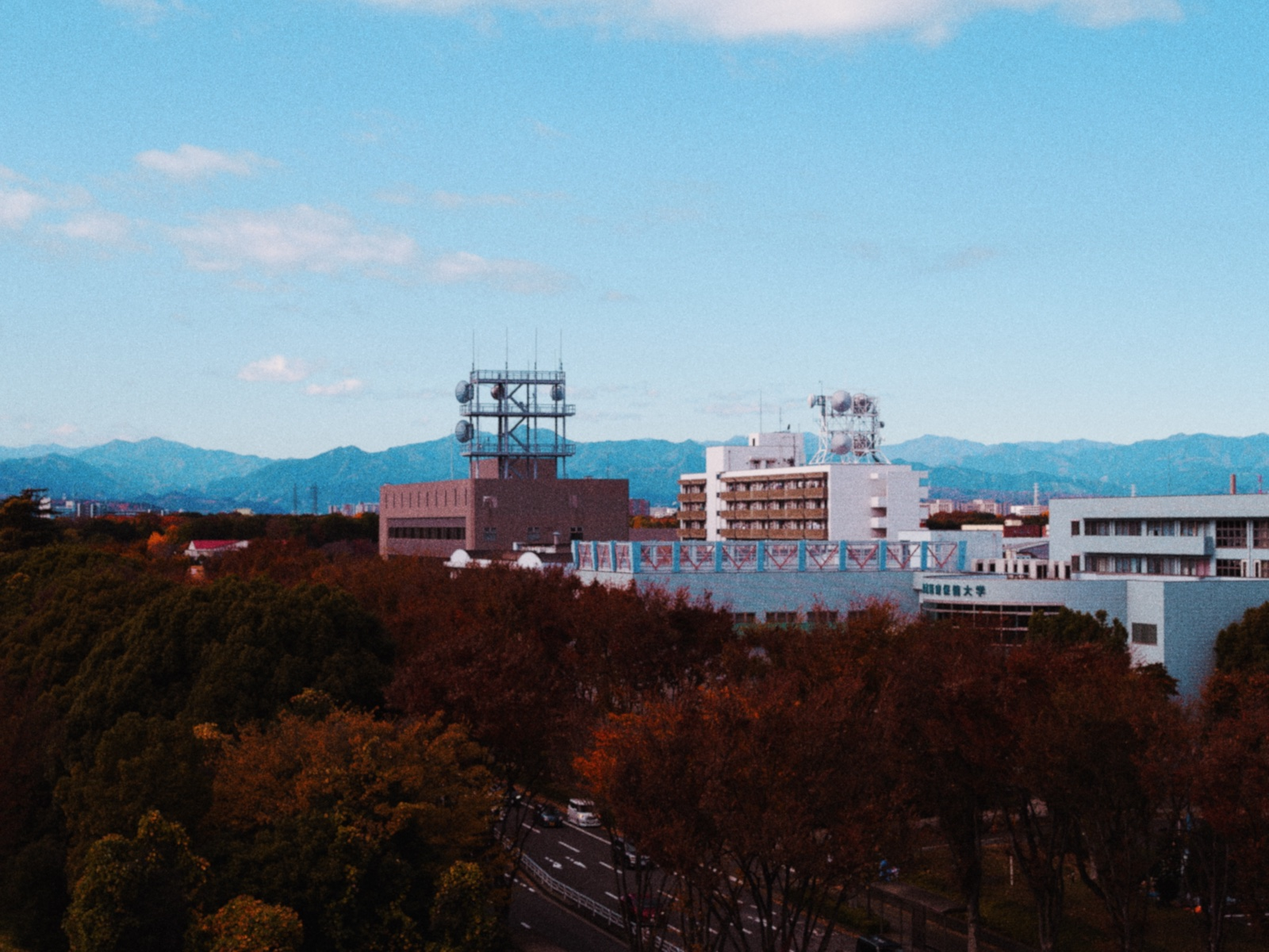
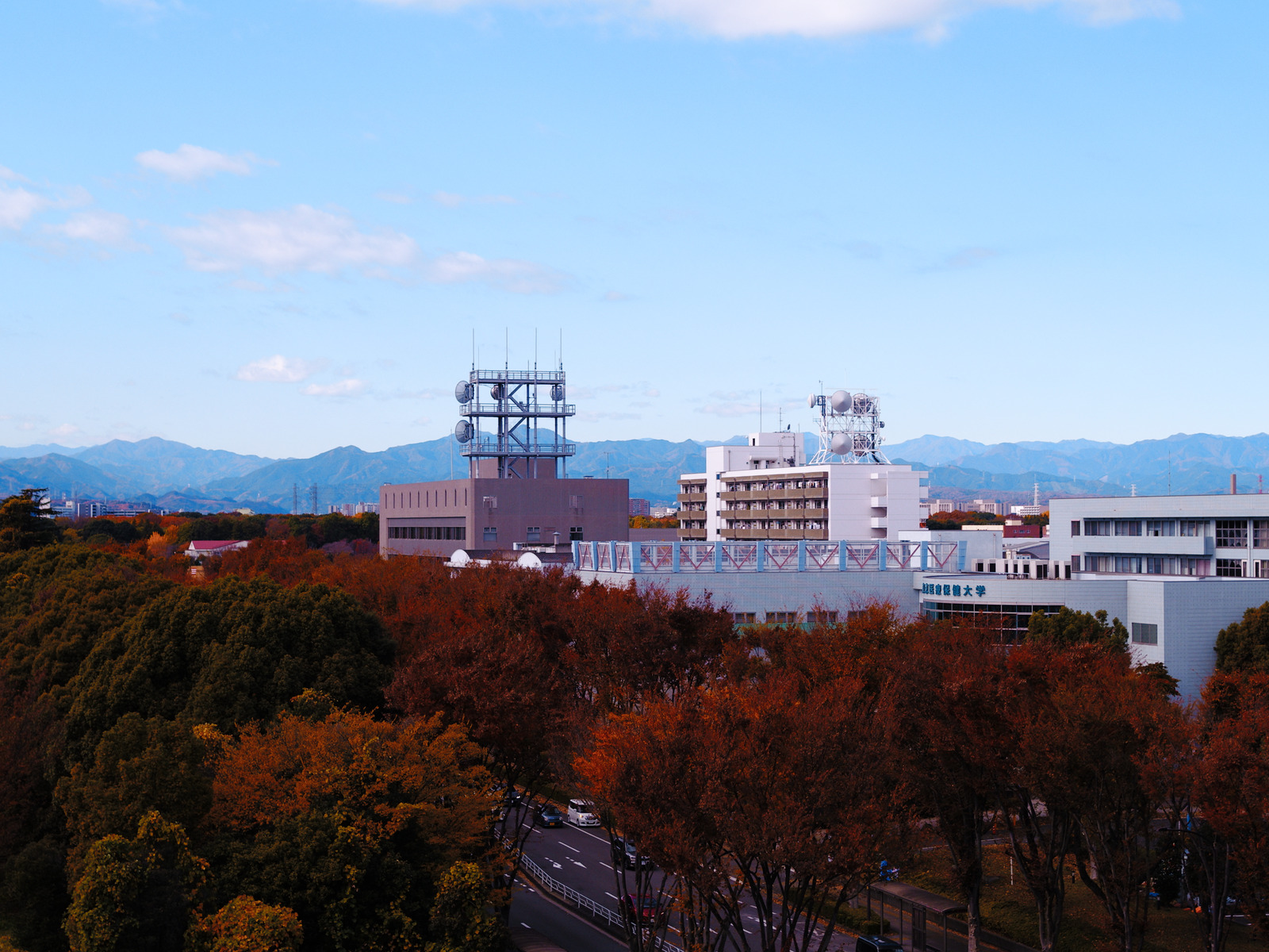
更新 Emulsion V8 宣传资料与多语言配方说明
需求描述：内置胶片配方已更新，历史样片与免费胶片范围需要同步。

实现思路：比较五张原图的 16 款真实 V8 显影结果，选择 Honey、Mint、Midnight、Ridge 样片；更新八语言介绍并区分新版预览与现有 TestFlight 构建。

diff --git a/emulsion/site-copy.js b/emulsion/site-copy.js
@@ -2,7 +2,7 @@ window.EMULSION_SITE = {
   "en-US": {
     "title": "Manual camera & film darkroom",
     "promo": "Load a film, make the frame, and develop your own look. Manual controls, a live film preview, and a darkroom for photos old and new.",
-    "description": "Emulsion brings the rhythm of film photography to your iPhone: choose a film, compose your frame, and develop it in your own darkroom.\n\nA CAMERA YOU CONTROL\nAdjust ISO, shutter speed, white balance, focus, and exposure. Use composition guides and a live film preview to shape the photograph before you press the shutter. RAW and ProRAW capture are available on supported devices.\n\nFILM WITH CHARACTER\nExplore color and black-and-white stocks with grain, halation, bloom, and tonal character. Honey 200 and the Daily Roll give you a place to begin. Emulsion Club opens the full film collection and custom .cube LUT imports.\n\nYOUR POCKET DARKROOM\nDevelop photos from your library, change their film look, adjust the image, and finish with print frames. Work with half-frame and fisheye shooting modes for a different perspective.\n\nEMULSION CLUB\nChoose monthly or yearly membership, or a one-time lifetime purchase. Eligible customers may receive an introductory offer, shown before purchase. Subscriptions renew automatically unless canceled at least 24 hours before the current period ends. Manage or cancel them in your Apple Account settings.\n\nCamera features depend on your device.",
+    "description": "Emulsion brings the rhythm of film photography to your iPhone: choose a film, compose your frame, and develop it in your own darkroom.\n\nA CAMERA YOU CONTROL\nAdjust ISO, shutter speed, white balance, focus, and exposure. Use composition guides and a live film preview to shape the photograph before you press the shutter. RAW and ProRAW capture are available on supported devices.\n\nFILM WITH CHARACTER\nExplore 10 color films, 6 black-and-white films and 4 paper-print looks, each with its own color, tone and texture. Peach 160, Honey 200 and Silver 100 are free, alongside the Daily Roll. Emulsion Club unlocks the remaining films, paper-print looks and custom .cube LUT imports.\n\nYOUR POCKET DARKROOM\nDevelop photos from your library, change their film look, adjust the image, and finish with print frames. Work with half-frame and fisheye shooting modes for a different perspective.\n\nEMULSION CLUB\nChoose monthly or yearly membership, or a one-time lifetime purchase. Eligible customers may receive an introductory offer, shown before purchase. Subscriptions renew automatically unless canceled at least 24 hours before the current period ends. Manage or cancel them in your Apple Account settings.\n\nCamera features depend on your device.",
     "ui": [
       "English",
       "Support",
@@ -16,7 +16,7 @@ window.EMULSION_SITE = {
     "paragraphs": [
       "Emulsion brings the rhythm of film photography to your iPhone: choose a film, compose your frame, and develop it in your own darkroom.",
       "A CAMERA YOU CONTROL\nAdjust ISO, shutter speed, white balance, focus, and exposure. Use composition guides and a live film preview to shape the photograph before you press the shutter. RAW and ProRAW capture are available on supported devices.",
-      "FILM WITH CHARACTER\nExplore color and black-and-white stocks with grain, halation, bloom, and tonal character. Honey 200 and the Daily Roll give you a place to begin. Emulsion Club opens the full film collection and custom .cube LUT imports.",
+      "FILM WITH CHARACTER\nExplore 10 color films, 6 black-and-white films and 4 paper-print looks, each with its own color, tone and texture. Peach 160, Honey 200 and Silver 100 are free, alongside the Daily Roll. Emulsion Club unlocks the remaining films, paper-print looks and custom .cube LUT imports.",
       "YOUR POCKET DARKROOM\nDevelop photos from your library, change their film look, adjust the image, and finish with print frames. Work with half-frame and fisheye shooting modes for a different perspective.",
       "EMULSION CLUB\nChoose monthly or yearly membership, or a one-time lifetime purchase. Eligible customers may receive an introductory offer, shown before purchase. Subscriptions renew automatically unless canceled at least 24 hours before the current period ends. Manage or cancel them in your Apple Account settings.",
       "Camera features depend on your device."
@@ -27,9 +27,9 @@ window.EMULSION_SITE = {
       "sample": "Emulsion film sample",
       "imageAlts": [
         "City photograph developed with Honey 200",
-        "Cherry blossoms developed with Peach 160",
-        "Tower photograph developed with Flint 100",
-        "Airplane photograph developed with Honey 200"
+        "Cherry blossoms developed with Mint 400",
+        "Tower photograph developed with Midnight 400",
+        "Airplane photograph developed with Ridge 100"
       ],
       "headings": [
         "Make the frame.",
@@ -40,12 +40,13 @@ window.EMULSION_SITE = {
       "beta": "Try on TestFlight",
       "explore": "Explore the film samples",
       "closing": "Choose. Capture. Develop."
-    }
+    },
+    "previewNote": "V8 preview: these samples use the new film recipes. The current public beta (build 8) uses earlier recipes."
   },
   "de-DE": {
     "title": "Filmkamera & Dunkelkammer",
     "promo": "Film wählen, Bild gestalten, eigenen Look entwickeln. Mit manueller Steuerung, Live-Filmvorschau und Dunkelkammer für neue und vertraute Fotos.",
-    "description": "Emulsion bringt den Rhythmus der analogen Fotografie auf dein iPhone: Wähle einen Film, gestalte dein Bild und entwickle es in deiner eigenen Dunkelkammer.\n\nEINE KAMERA UNTER DEINER KONTROLLE\nPasse ISO, Verschlusszeit, Weißabgleich, Fokus und Belichtung an. Gestaltungshilfen und eine Live-Filmvorschau helfen dir, dein Foto schon vor dem Auslösen zu formen. RAW- und ProRAW-Aufnahmen sind auf unterstützten Geräten verfügbar.\n\nFILME MIT CHARAKTER\nEntdecke Farb- und Schwarz-Weiß-Filme mit Körnung, Halation, weichem Lichtschein und eigenen Tonwerten. Honey 200 und Daily Roll bieten dir einen Einstieg. Emulsion Club schaltet die gesamte Filmsammlung und den Import eigener .cube-LUTs frei.\n\nDEINE MOBILE DUNKELKAMMER\nEntwickle Fotos aus deiner Mediathek, ändere ihren Filmlook, passe das Bild an und runde es mit Fotorahmen ab. Halbbild- und Fisheye-Aufnahmemodi eröffnen dir eine andere Perspektive.\n\nEMULSION CLUB\nWähle eine monatliche oder jährliche Mitgliedschaft oder einen einmaligen Kauf für lebenslangen Zugang. Berechtigte Kunden können ein Einführungsangebot erhalten, das vor dem Kauf angezeigt wird. Abonnements verlängern sich automatisch, sofern sie nicht mindestens 24 Stunden vor Ende des laufenden Zeitraums gekündigt werden. Du kannst sie in den Einstellungen deines Apple Accounts verwalten oder kündigen.\n\nDie Kamerafunktionen hängen von deinem Gerät ab.\n\nDatenschutzerklärung: https://www.makexyz.app/emulsion/privacy-policy.html\nNutzungsbedingungen: https://www.makexyz.app/emulsion/terms-of-service.html",
+    "description": "Emulsion bringt den Rhythmus der analogen Fotografie auf dein iPhone: Wähle einen Film, gestalte dein Bild und entwickle es in deiner eigenen Dunkelkammer.\n\nEINE KAMERA UNTER DEINER KONTROLLE\nPasse ISO, Verschlusszeit, Weißabgleich, Fokus und Belichtung an. Gestaltungshilfen und eine Live-Filmvorschau helfen dir, dein Foto schon vor dem Auslösen zu formen. RAW- und ProRAW-Aufnahmen sind auf unterstützten Geräten verfügbar.\n\nFILME MIT CHARAKTER\nWähle aus 10 Farbfilmen, 6 Schwarz-Weiß-Filmen und 4 Papierlooks mit eigenen Farben, Tonwerten und Texturen. Peach 160, Honey 200, Silver 100 und Daily Roll sind kostenlos. Emulsion Club schaltet die übrigen Filme, Papierlooks und den Import eigener .cube-LUTs frei.\n\nDEINE MOBILE DUNKELKAMMER\nEntwickle Fotos aus deiner Mediathek, ändere ihren Filmlook, passe das Bild an und runde es mit Fotorahmen ab. Halbbild- und Fisheye-Aufnahmemodi eröffnen dir eine andere Perspektive.\n\nEMULSION CLUB\nWähle eine monatliche oder jährliche Mitgliedschaft oder einen einmaligen Kauf für lebenslangen Zugang. Berechtigte Kunden können ein Einführungsangebot erhalten, das vor dem Kauf angezeigt wird. Abonnements verlängern sich automatisch, sofern sie nicht mindestens 24 Stunden vor Ende des laufenden Zeitraums gekündigt werden. Du kannst sie in den Einstellungen deines Apple Accounts verwalten oder kündigen.\n\nDie Kamerafunktionen hängen von deinem Gerät ab.\n\nDatenschutzerklärung: https://www.makexyz.app/emulsion/privacy-policy.html\nNutzungsbedingungen: https://www.makexyz.app/emulsion/terms-of-service.html",
     "ui": [
       "Deutsch",
       "Support",
@@ -59,7 +60,7 @@ window.EMULSION_SITE = {
     "paragraphs": [
       "Emulsion bringt den Rhythmus der analogen Fotografie auf dein iPhone: Wähle einen Film, gestalte dein Bild und entwickle es in deiner eigenen Dunkelkammer.",
       "EINE KAMERA UNTER DEINER KONTROLLE\nPasse ISO, Verschlusszeit, Weißabgleich, Fokus und Belichtung an. Gestaltungshilfen und eine Live-Filmvorschau helfen dir, dein Foto schon vor dem Auslösen zu formen. RAW- und ProRAW-Aufnahmen sind auf unterstützten Geräten verfügbar.",
-      "FILME MIT CHARAKTER\nEntdecke Farb- und Schwarz-Weiß-Filme mit Körnung, Halation, weichem Lichtschein und eigenen Tonwerten. Honey 200 und Daily Roll bieten dir einen Einstieg. Emulsion Club schaltet die gesamte Filmsammlung und den Import eigener .cube-LUTs frei.",
+      "FILME MIT CHARAKTER\nWähle aus 10 Farbfilmen, 6 Schwarz-Weiß-Filmen und 4 Papierlooks mit eigenen Farben, Tonwerten und Texturen. Peach 160, Honey 200, Silver 100 und Daily Roll sind kostenlos. Emulsion Club schaltet die übrigen Filme, Papierlooks und den Import eigener .cube-LUTs frei.",
       "DEINE MOBILE DUNKELKAMMER\nEntwickle Fotos aus deiner Mediathek, ändere ihren Filmlook, passe das Bild an und runde es mit Fotorahmen ab. Halbbild- und Fisheye-Aufnahmemodi eröffnen dir eine andere Perspektive.",
       "EMULSION CLUB\nWähle eine monatliche oder jährliche Mitgliedschaft oder einen einmaligen Kauf für lebenslangen Zugang. Berechtigte Kunden können ein Einführungsangebot erhalten, das vor dem Kauf angezeigt wird. Abonnements verlängern sich automatisch, sofern sie nicht mindestens 24 Stunden vor Ende des laufenden Zeitraums gekündigt werden. Du kannst sie in den Einstellungen deines Apple Accounts verwalten oder kündigen.",
       "Die Kamerafunktionen hängen von deinem Gerät ab."
@@ -70,9 +71,9 @@ window.EMULSION_SITE = {
       "sample": "Emulsion Filmbeispiel",
       "imageAlts": [
         "Stadtfoto mit Honey 200 entwickelt",
-        "Kirschblüten mit Peach 160 entwickelt",
-        "Turmfoto mit Flint 100 entwickelt",
-        "Flugzeugfoto mit Honey 200 entwickelt"
+        "Kirschblüten mit Mint 400 entwickelt",
+        "Turmfoto mit Midnight 400 entwickelt",
+        "Flugzeugfoto mit Ridge 100 entwickelt"
       ],
       "headings": [
         "Eine Kamera unter deiner Kontrolle",
@@ -83,12 +84,13 @@ window.EMULSION_SITE = {
       "beta": "Mit TestFlight testen",
       "explore": "Filmbeispiele ansehen",
       "closing": "Wählen. Aufnehmen. Entwickeln."
-    }
+    },
+    "previewNote": "V8-Vorschau: Die Beispiele nutzen die neuen Filmrezepte. Die aktuelle öffentliche Beta (Build 8) nutzt frühere Rezepte."
   },
   "zh-Hans": {
     "title": "专业手动相机与胶片暗房",
     "promo": "选一卷胶片，认真构图，在口袋暗房里完成作品。手动控制、实时胶片预览，让拍摄与冲洗成为同一段创作。",
-    "description": "Emulsion 将胶片摄影的节奏带到 iPhone：选择胶片、构图拍摄，再到暗房里完成自己的影像。\n\n专业手动拍摄\n调节 ISO、快门、白平衡、对焦与曝光。借助构图辅助和实时胶片预览，在按下快门之前塑造画面。RAW 与 ProRAW 拍摄需要支持的设备。\n\n有性格的胶片\n探索彩色与黑白胶片的颗粒、光晕和色调。从 Honey 200 和每日胶片开始，加入 Emulsion Club 可解锁完整胶片库并导入自己的 .cube LUT。\n\n口袋里的暗房\n导入图库照片，重新选择胶片、调整画面并添加相框。半格与鱼眼拍摄模式，带来不同的观察方式。\n\nEmulsion Club\n提供月度、年度订阅及一次性终身购买。符合条件的用户可享购买前展示的入门优惠。订阅会自动续期，除非在当前周期结束至少 24 小时前取消。可在 Apple 账户设置中管理或取消订阅。\n\n相机功能因设备而异。\n\n隐私政策: https://www.makexyz.app/emulsion/privacy-policy.html\n用户条款: https://www.makexyz.app/emulsion/terms-of-service.html",
+    "description": "Emulsion 将胶片摄影的节奏带到 iPhone：选择胶片、构图拍摄，再到暗房里完成自己的影像。\n\n专业手动拍摄\n调节 ISO、快门、白平衡、对焦与曝光。借助构图辅助和实时胶片预览，在按下快门之前塑造画面。RAW 与 ProRAW 拍摄需要支持的设备。\n\n有性格的胶片\n从 10 款彩色胶片、6 款黑白胶片和 4 款纸张效果中，选择不同的色彩、灰阶与质感。Peach 160、Honey 200、Silver 100 与每日胶片免费提供；Emulsion Club 可解锁其余胶片、纸张效果并导入自己的 .cube LUT。\n\n口袋里的暗房\n导入图库照片，重新选择胶片、调整画面并添加相框。半格与鱼眼拍摄模式，带来不同的观察方式。\n\nEmulsion Club\n提供月度、年度订阅及一次性终身购买。符合条件的用户可享购买前展示的入门优惠。订阅会自动续期，除非在当前周期结束至少 24 小时前取消。可在 Apple 账户设置中管理或取消订阅。\n\n相机功能因设备而异。\n\n隐私政策: https://www.makexyz.app/emulsion/privacy-policy.html\n用户条款: https://www.makexyz.app/emulsion/terms-of-service.html",
     "ui": [
       "简体中文",
       "支持",
@@ -102,7 +104,7 @@ window.EMULSION_SITE = {
     "paragraphs": [
       "Emulsion 将胶片摄影的节奏带到 iPhone：选择胶片、构图拍摄，再到暗房里完成自己的影像。",
       "专业手动拍摄\n调节 ISO、快门、白平衡、对焦与曝光。借助构图辅助和实时胶片预览，在按下快门之前塑造画面。RAW 与 ProRAW 拍摄需要支持的设备。",
-      "有性格的胶片\n探索彩色与黑白胶片的颗粒、光晕和色调。从 Honey 200 和每日胶片开始，加入 Emulsion Club 可解锁完整胶片库并导入自己的 .cube LUT。",
+      "有性格的胶片\n从 10 款彩色胶片、6 款黑白胶片和 4 款纸张效果中，选择不同的色彩、灰阶与质感。Peach 160、Honey 200、Silver 100 与每日胶片免费提供；Emulsion Club 可解锁其余胶片、纸张效果并导入自己的 .cube LUT。",
       "口袋里的暗房\n导入图库照片，重新选择胶片、调整画面并添加相框。半格与鱼眼拍摄模式，带来不同的观察方式。",
       "Emulsion Club\n提供月度、年度订阅及一次性终身购买。符合条件的用户可享购买前展示的入门优惠。订阅会自动续期，除非在当前周期结束至少 24 小时前取消。可在 Apple 账户设置中管理或取消订阅。",
       "相机功能因设备而异。"
@@ -113,9 +115,9 @@ window.EMULSION_SITE = {
       "sample": "Emulsion 胶片样片",
       "imageAlts": [
         "以 Honey 200 显影的城市照片",
-        "以 Peach 160 显影的樱花照片",
-        "以 Flint 100 显影的塔楼照片",
-        "以 Honey 200 显影的飞机照片"
+        "以 Mint 400 显影的樱花照片",
+        "以 Midnight 400 显影的塔楼照片",
+        "以 Ridge 100 显影的飞机照片"
       ],
       "headings": [
         "掌握你的光线。",
@@ -126,12 +128,13 @@ window.EMULSION_SITE = {
       "beta": "加入 TestFlight 测试",
       "explore": "查看胶片样片",
       "closing": "选一卷。拍一张。慢慢显影。"
-    }
+    },
+    "previewNote": "V8 预览：这些样片使用新版胶片配方。当前公开测试版（构建 8）仍使用旧配方。"
   },
   "fr-FR": {
     "title": "Photo argentique et labo",
     "promo": "Choisissez un film, composez et révélez votre style. Réglages manuels, aperçu en direct et labo photo pour vos images d’hier et d’aujourd’hui.",
-    "description": "Emulsion apporte le rythme de la photographie argentique à votre iPhone : choisissez une pellicule, composez votre image et développez-la dans votre propre labo.\n\nUN APPAREIL QUE VOUS MAÎTRISEZ\nRéglez la sensibilité ISO, la vitesse d’obturation, la balance des blancs, la mise au point et l’exposition. Les guides de composition et l’aperçu du film en direct vous aident à façonner votre photo avant de déclencher. La prise de vue RAW et ProRAW est disponible sur les appareils compatibles.\n\nDES FILMS DE CARACTÈRE\nExplorez des pellicules couleur et noir et blanc, avec leur grain, leur halation, leur diffusion lumineuse et leurs nuances. Honey 200 et Daily Roll vous offrent un point de départ. Emulsion Club donne accès à la collection complète de films et à l’importation de LUT .cube personnalisées.\n\nVOTRE LABO DE POCHE\nDéveloppez les photos de votre photothèque, changez leur rendu de film, ajustez l’image et apportez la touche finale avec des cadres d’impression. Les modes demi-format et fisheye vous proposent un autre point de vue.\n\nEMULSION CLUB\nChoisissez un abonnement mensuel ou annuel, ou un achat unique à vie. Les clients éligibles peuvent bénéficier d’une offre de lancement, présentée avant l’achat. Les abonnements sont renouvelés automatiquement, sauf annulation au moins 24 heures avant la fin de la période en cours. Vous pouvez les gérer ou les annuler dans les réglages de votre compte Apple.\n\nLes fonctions de l’appareil photo dépendent de votre appareil.\n\nPolitique de confidentialité : https://www.makexyz.app/emulsion/privacy-policy.html\nConditions d’utilisation : https://www.makexyz.app/emulsion/terms-of-service.html",
+    "description": "Emulsion apporte le rythme de la photographie argentique à votre iPhone : choisissez une pellicule, composez votre image et développez-la dans votre propre labo.\n\nUN APPAREIL QUE VOUS MAÎTRISEZ\nRéglez la sensibilité ISO, la vitesse d’obturation, la balance des blancs, la mise au point et l’exposition. Les guides de composition et l’aperçu du film en direct vous aident à façonner votre photo avant de déclencher. La prise de vue RAW et ProRAW est disponible sur les appareils compatibles.\n\nDES FILMS DE CARACTÈRE\nChoisissez parmi 10 films couleur, 6 films noir et blanc et 4 rendus sur papier, avec leurs couleurs, nuances et textures. Peach 160, Honey 200, Silver 100 et Daily Roll sont gratuits. Emulsion Club débloque les autres films, les rendus sur papier et l’importation de LUT .cube personnalisées.\n\nVOTRE LABO DE POCHE\nDéveloppez les photos de votre photothèque, changez leur rendu de film, ajustez l’image et apportez la touche finale avec des cadres d’impression. Les modes demi-format et fisheye vous proposent un autre point de vue.\n\nEMULSION CLUB\nChoisissez un abonnement mensuel ou annuel, ou un achat unique à vie. Les clients éligibles peuvent bénéficier d’une offre de lancement, présentée avant l’achat. Les abonnements sont renouvelés automatiquement, sauf annulation au moins 24 heures avant la fin de la période en cours. Vous pouvez les gérer ou les annuler dans les réglages de votre compte Apple.\n\nLes fonctions de l’appareil photo dépendent de votre appareil.\n\nPolitique de confidentialité : https://www.makexyz.app/emulsion/privacy-policy.html\nConditions d’utilisation : https://www.makexyz.app/emulsion/terms-of-service.html",
     "ui": [
       "Français",
       "Assistance",
@@ -145,7 +148,7 @@ window.EMULSION_SITE = {
     "paragraphs": [
       "Emulsion apporte le rythme de la photographie argentique à votre iPhone : choisissez une pellicule, composez votre image et développez-la dans votre propre labo.",
       "UN APPAREIL QUE VOUS MAÎTRISEZ\nRéglez la sensibilité ISO, la vitesse d’obturation, la balance des blancs, la mise au point et l’exposition. Les guides de composition et l’aperçu du film en direct vous aident à façonner votre photo avant de déclencher. La prise de vue RAW et ProRAW est disponible sur les appareils compatibles.",
-      "DES FILMS DE CARACTÈRE\nExplorez des pellicules couleur et noir et blanc, avec leur grain, leur halation, leur diffusion lumineuse et leurs nuances. Honey 200 et Daily Roll vous offrent un point de départ. Emulsion Club donne accès à la collection complète de films et à l’importation de LUT .cube personnalisées.",
+      "DES FILMS DE CARACTÈRE\nChoisissez parmi 10 films couleur, 6 films noir et blanc et 4 rendus sur papier, avec leurs couleurs, nuances et textures. Peach 160, Honey 200, Silver 100 et Daily Roll sont gratuits. Emulsion Club débloque les autres films, les rendus sur papier et l’importation de LUT .cube personnalisées.",
       "VOTRE LABO DE POCHE\nDéveloppez les photos de votre photothèque, changez leur rendu de film, ajustez l’image et apportez la touche finale avec des cadres d’impression. Les modes demi-format et fisheye vous proposent un autre point de vue.",
       "EMULSION CLUB\nChoisissez un abonnement mensuel ou annuel, ou un achat unique à vie. Les clients éligibles peuvent bénéficier d’une offre de lancement, présentée avant l’achat. Les abonnements sont renouvelés automatiquement, sauf annulation au moins 24 heures avant la fin de la période en cours. Vous pouvez les gérer ou les annuler dans les réglages de votre compte Apple.",
       "Les fonctions de l’appareil photo dépendent de votre appareil."
@@ -156,9 +159,9 @@ window.EMULSION_SITE = {
       "sample": "Exemple de film Emulsion",
       "imageAlts": [
         "Photo urbaine développée avec Honey 200",
-        "Cerisiers en fleurs développés avec Peach 160",
-        "Photo de tour développée avec Flint 100",
-        "Photo d’avion développée avec Honey 200"
+        "Cerisiers en fleurs développés avec Mint 400",
+        "Photo de tour développée avec Midnight 400",
+        "Photo d’avion développée avec Ridge 100"
       ],
       "headings": [
         "Un appareil que vous maîtrisez",
@@ -169,12 +172,13 @@ window.EMULSION_SITE = {
       "beta": "Essayer sur TestFlight",
       "explore": "Voir les exemples",
       "closing": "Choisir. Cadrer. Révéler."
-    }
+    },
+    "previewNote": "Aperçu V8 : les exemples utilisent les nouvelles recettes. La bêta publique actuelle (build 8) utilise les recettes précédentes."
   },
   "ko": {
     "title": "필름 카메라와 나만의 암실",
     "promo": "필름을 넣고, 구도를 잡고, 나만의 느낌으로 현상하세요. 수동 조절, 실시간 필름 미리보기, 새 사진과 추억 속 사진을 위한 암실을 만나보세요.",
-    "description": "Emulsion은 필름 사진의 리듬을 iPhone으로 가져옵니다. 필름을 고르고, 구도를 잡고, 나만의 암실에서 사진을 현상해 보세요.\n\n내 손으로 조절하는 카메라\nISO, 셔터 속도, 화이트 밸런스, 초점, 노출을 조절하세요. 구도 가이드와 실시간 필름 미리보기로 셔터를 누르기 전에 원하는 사진을 만들어 갈 수 있습니다. 지원 기기에서는 RAW 및 ProRAW 촬영이 가능합니다.\n\n개성 있는 필름\n그레인, 할레이션, 블룸, 색조의 특징이 살아 있는 컬러와 흑백 필름을 만나보세요. Honey 200과 Daily Roll로 시작할 수 있습니다. Emulsion Club에서는 전체 필름 컬렉션과 사용자 지정 .cube LUT 가져오기를 이용할 수 있습니다.\n\n주머니 속 암실\n사진 보관함의 사진을 현상하고, 필름 느낌을 바꾸고, 이미지를 조정한 뒤 인화 프레임으로 마무리하세요. 하프프레임과 어안 촬영 모드로 색다른 시점도 만나보세요.\n\nEMULSION CLUB\n월간 또는 연간 멤버십, 혹은 한 번 구매하는 평생 이용권을 선택할 수 있습니다. 자격 요건을 충족하는 고객에게는 가입 특별 혜택이 제공될 수 있으며, 구매 전에 안내됩니다. 현재 구독 기간이 끝나기 최소 24시간 전에 취소하지 않으면 구독이 자동 갱신됩니다. Apple 계정 설정에서 구독을 관리하거나 취소할 수 있습니다.\n\n카메라 기능은 기기에 따라 다릅니다.\n\n개인정보 처리방침: https://www.makexyz.app/emulsion/privacy-policy.html\n이용 약관: https://www.makexyz.app/emulsion/terms-of-service.html",
+    "description": "Emulsion은 필름 사진의 리듬을 iPhone으로 가져옵니다. 필름을 고르고, 구도를 잡고, 나만의 암실에서 사진을 현상해 보세요.\n\n내 손으로 조절하는 카메라\nISO, 셔터 속도, 화이트 밸런스, 초점, 노출을 조절하세요. 구도 가이드와 실시간 필름 미리보기로 셔터를 누르기 전에 원하는 사진을 만들어 갈 수 있습니다. 지원 기기에서는 RAW 및 ProRAW 촬영이 가능합니다.\n\n개성 있는 필름\n컬러 필름 10종, 흑백 필름 6종과 종이 인쇄 효과 4종에서 색감, 명암과 질감을 골라 보세요. Peach 160, Honey 200, Silver 100과 Daily Roll은 무료입니다. Emulsion Club에서 나머지 필름, 종이 인쇄 효과와 사용자 .cube LUT 가져오기를 이용할 수 있습니다.\n\n주머니 속 암실\n사진 보관함의 사진을 현상하고, 필름 느낌을 바꾸고, 이미지를 조정한 뒤 인화 프레임으로 마무리하세요. 하프프레임과 어안 촬영 모드로 색다른 시점도 만나보세요.\n\nEMULSION CLUB\n월간 또는 연간 멤버십, 혹은 한 번 구매하는 평생 이용권을 선택할 수 있습니다. 자격 요건을 충족하는 고객에게는 가입 특별 혜택이 제공될 수 있으며, 구매 전에 안내됩니다. 현재 구독 기간이 끝나기 최소 24시간 전에 취소하지 않으면 구독이 자동 갱신됩니다. Apple 계정 설정에서 구독을 관리하거나 취소할 수 있습니다.\n\n카메라 기능은 기기에 따라 다릅니다.\n\n개인정보 처리방침: https://www.makexyz.app/emulsion/privacy-policy.html\n이용 약관: https://www.makexyz.app/emulsion/terms-of-service.html",
     "ui": [
       "한국어",
       "지원",
@@ -188,7 +192,7 @@ window.EMULSION_SITE = {
     "paragraphs": [
       "Emulsion은 필름 사진의 리듬을 iPhone으로 가져옵니다. 필름을 고르고, 구도를 잡고, 나만의 암실에서 사진을 현상해 보세요.",
       "내 손으로 조절하는 카메라\nISO, 셔터 속도, 화이트 밸런스, 초점, 노출을 조절하세요. 구도 가이드와 실시간 필름 미리보기로 셔터를 누르기 전에 원하는 사진을 만들어 갈 수 있습니다. 지원 기기에서는 RAW 및 ProRAW 촬영이 가능합니다.",
-      "개성 있는 필름\n그레인, 할레이션, 블룸, 색조의 특징이 살아 있는 컬러와 흑백 필름을 만나보세요. Honey 200과 Daily Roll로 시작할 수 있습니다. Emulsion Club에서는 전체 필름 컬렉션과 사용자 지정 .cube LUT 가져오기를 이용할 수 있습니다.",
+      "개성 있는 필름\n컬러 필름 10종, 흑백 필름 6종과 종이 인쇄 효과 4종에서 색감, 명암과 질감을 골라 보세요. Peach 160, Honey 200, Silver 100과 Daily Roll은 무료입니다. Emulsion Club에서 나머지 필름, 종이 인쇄 효과와 사용자 .cube LUT 가져오기를 이용할 수 있습니다.",
       "주머니 속 암실\n사진 보관함의 사진을 현상하고, 필름 느낌을 바꾸고, 이미지를 조정한 뒤 인화 프레임으로 마무리하세요. 하프프레임과 어안 촬영 모드로 색다른 시점도 만나보세요.",
       "EMULSION CLUB\n월간 또는 연간 멤버십, 혹은 한 번 구매하는 평생 이용권을 선택할 수 있습니다. 자격 요건을 충족하는 고객에게는 가입 특별 혜택이 제공될 수 있으며, 구매 전에 안내됩니다. 현재 구독 기간이 끝나기 최소 24시간 전에 취소하지 않으면 구독이 자동 갱신됩니다. Apple 계정 설정에서 구독을 관리하거나 취소할 수 있습니다.",
       "카메라 기능은 기기에 따라 다릅니다."
@@ -199,9 +203,9 @@ window.EMULSION_SITE = {
       "sample": "Emulsion 필름 샘플",
       "imageAlts": [
         "Honey 200으로 현상한 도시 사진",
-        "Peach 160으로 현상한 벚꽃 사진",
-        "Flint 100으로 현상한 탑 사진",
-        "Honey 200으로 현상한 비행기 사진"
+        "Mint 400으로 현상한 벚꽃 사진",
+        "Midnight 400으로 현상한 탑 사진",
+        "Ridge 100으로 현상한 비행기 사진"
       ],
       "headings": [
         "내 손으로 조절하는 카메라",
@@ -212,12 +216,13 @@ window.EMULSION_SITE = {
       "beta": "TestFlight에서 체험",
       "explore": "필름 샘플 보기",
       "closing": "고르고. 찍고. 현상하고."
-    }
+    },
+    "previewNote": "V8 미리보기: 샘플에는 새 필름 레시피를 사용했습니다. 현재 공개 베타(빌드 8)는 이전 레시피를 사용합니다."
   },
   "ja": {
     "title": "マニュアル撮影とフィルム暗室",
     "promo": "フィルムを選び、構図を決め、自分の色に現像する。マニュアル操作とライブプレビューを備えた、ポケットの中の暗室。",
-    "description": "Emulsion は、フィルム写真のリズムを iPhone に届けます。フィルムを選び、構図を決め、暗室で写真を仕上げましょう。\n\nISO、シャッター速度、ホワイトバランス、フォーカス、露出を調整。構図ガイドとライブのフィルムプレビューで、撮影前から作品をつくれます。対応機種では RAW・ProRAW 撮影も利用できます。\n\nカラーやモノクロのフィルム、粒子、ハレーション、ブルームを楽しめます。Honey 200 と Daily Roll から始めて、Emulsion Club でフィルム全種類と .cube LUT の読み込みを利用できます。\n\nライブラリの写真を現像し、フィルムや調整、フレームで仕上げられます。ハーフフレームと魚眼撮影にも対応。\n\nEmulsion Club は月額、年額、買い切りのプランをご用意。対象ユーザーへの初回オファーは購入前に表示されます。定期購読は期間終了の24時間以上前に解約しない限り自動更新されます。Apple アカウントの設定で管理・解約できます。\n\nカメラ機能は機種によって異なります。",
+    "description": "Emulsion は、フィルム写真のリズムを iPhone に届けます。フィルムを選び、構図を決め、暗室で写真を仕上げましょう。\n\nISO、シャッター速度、ホワイトバランス、フォーカス、露出を調整。構図ガイドとライブのフィルムプレビューで、撮影前から作品をつくれます。対応機種では RAW・ProRAW 撮影も利用できます。\n\nカラーやモノクロのフィルム、粒子、ハレーション、ブルームを楽しめます。Honey 200 と Daily Roll から始めて、Emulsion Club でフィルム全種類と .cube LUT の読み込みを利用できます。\n10 種のカラーフィルム、6 種のモノクロフィルム、4 種の紙プリントを、色・階調・質感で選べます。Peach 160、Honey 200、Silver 100 と Daily Roll は無料で使えます。Emulsion Club で残りのフィルム、紙プリント、自分の .cube LUT の読み込みを利用できます。\n\nライブラリの写真を現像し、フィルムや調整、フレームで仕上げられます。ハーフフレームと魚眼撮影にも対応。\n\nEmulsion Club は月額、年額、買い切りのプランをご用意。対象ユーザーへの初回オファーは購入前に表示されます。定期購読は期間終了の24時間以上前に解約しない限り自動更新されます。Apple アカウントの設定で管理・解約できます。\n\nカメラ機能は機種によって異なります。",
     "ui": [
       "日本語",
       "サポート",
@@ -231,7 +236,7 @@ window.EMULSION_SITE = {
     "paragraphs": [
       "Emulsion は、フィルム写真のリズムを iPhone に届けます。フィルムを選び、構図を決め、暗室で写真を仕上げましょう。",
       "ISO、シャッター速度、ホワイトバランス、フォーカス、露出を調整。構図ガイドとライブのフィルムプレビューで、撮影前から作品をつくれます。対応機種では RAW・ProRAW 撮影も利用できます。",
-      "カラーやモノクロのフィルム、粒子、ハレーション、ブルームを楽しめます。Honey 200 と Daily Roll から始めて、Emulsion Club でフィルム全種類と .cube LUT の読み込みを利用できます。",
+      "カラーやモノクロのフィルム、粒子、ハレーション、ブルームを楽しめます。Honey 200 と Daily Roll から始めて、Emulsion Club でフィルム全種類と .cube LUT の読み込みを利用できます。\n10 種のカラーフィルム、6 種のモノクロフィルム、4 種の紙プリントを、色・階調・質感で選べます。Peach 160、Honey 200、Silver 100 と Daily Roll は無料で使えます。Emulsion Club で残りのフィルム、紙プリント、自分の .cube LUT の読み込みを利用できます。",
       "ライブラリの写真を現像し、フィルムや調整、フレームで仕上げられます。ハーフフレームと魚眼撮影にも対応。",
       "Emulsion Club は月額、年額、買い切りのプランをご用意。対象ユーザーへの初回オファーは購入前に表示されます。定期購読は期間終了の24時間以上前に解約しない限り自動更新されます。Apple アカウントの設定で管理・解約できます。",
       "カメラ機能は機種によって異なります。"
@@ -242,9 +247,9 @@ window.EMULSION_SITE = {
       "sample": "Emulsion フィルム作例",
       "imageAlts": [
         "Honey 200 で現像した街の写真",
-        "Peach 160 で現像した桜の写真",
-        "Flint 100 で現像した塔の写真",
-        "Honey 200 で現像した飛行機の写真"
+        "Mint 400 で現像した桜の写真",
+        "Midnight 400 で現像した塔の写真",
+        "Ridge 100 で現像した飛行機の写真"
       ],
       "headings": [
         "光を、思いのままに。",
@@ -255,12 +260,13 @@ window.EMULSION_SITE = {
       "beta": "TestFlight で試す",
       "explore": "フィルム作例を見る",
       "closing": "選ぶ。撮る。現像する。"
-    }
+    },
+    "previewNote": "V8 プレビュー：作例は新しいフィルムレシピで現像しています。現在の公開ベータ（ビルド 8）は以前のレシピです。"
   },
   "es-ES": {
     "title": "Cámara y laboratorio analógico",
     "promo": "Elige una película, encuadra y revela tu estilo. Controles manuales, vista previa en directo y un laboratorio para tus fotos de ayer y de hoy.",
-    "description": "Emulsion lleva el ritmo de la fotografía analógica a tu iPhone: elige una película, compón el encuadre y revela la imagen en tu propio laboratorio.\n\nUNA CÁMARA QUE TÚ CONTROLAS\nAjusta el ISO, la velocidad de obturación, el balance de blancos, el enfoque y la exposición. Usa las guías de composición y la vista previa de película en directo para dar forma a la foto antes de pulsar el disparador. La captura RAW y ProRAW está disponible en dispositivos compatibles.\n\nPELÍCULAS CON CARÁCTER\nExplora películas en color y en blanco y negro con grano, halación, resplandor y un carácter tonal propio. Honey 200 y Daily Roll te ofrecen un punto de partida. Emulsion Club da acceso a toda la colección de películas y a la importación de LUT .cube personalizadas.\n\nTU LABORATORIO DE BOLSILLO\nRevela fotos de tu fototeca, cambia su aspecto de película, ajusta la imagen y remátala con marcos de impresión. Prueba los modos de medio fotograma y ojo de pez para descubrir otra perspectiva.\n\nEMULSION CLUB\nElige una suscripción mensual o anual, o una compra única de acceso de por vida. Los clientes que cumplan los requisitos podrán recibir una oferta de bienvenida, que se mostrará antes de la compra. Las suscripciones se renuevan automáticamente, salvo que se cancelen al menos 24 horas antes de que termine el periodo actual. Puedes gestionarlas o cancelarlas en los ajustes de tu cuenta de Apple.\n\nLas funciones de la cámara dependen del dispositivo.\n\nPolítica de privacidad: https://www.makexyz.app/emulsion/privacy-policy.html\nCondiciones de uso: https://www.makexyz.app/emulsion/terms-of-service.html",
+    "description": "Emulsion lleva el ritmo de la fotografía analógica a tu iPhone: elige una película, compón el encuadre y revela la imagen en tu propio laboratorio.\n\nUNA CÁMARA QUE TÚ CONTROLAS\nAjusta el ISO, la velocidad de obturación, el balance de blancos, el enfoque y la exposición. Usa las guías de composición y la vista previa de película en directo para dar forma a la foto antes de pulsar el disparador. La captura RAW y ProRAW está disponible en dispositivos compatibles.\n\nPELÍCULAS CON CARÁCTER\nElige entre 10 películas en color, 6 en blanco y negro y 4 acabados de impresión en papel, con sus colores, tonos y texturas. Peach 160, Honey 200, Silver 100 y Daily Roll son gratuitos. Emulsion Club desbloquea las demás películas, los acabados de papel y la importación de LUT .cube propias.\n\nTU LABORATORIO DE BOLSILLO\nRevela fotos de tu fototeca, cambia su aspecto de película, ajusta la imagen y remátala con marcos de impresión. Prueba los modos de medio fotograma y ojo de pez para descubrir otra perspectiva.\n\nEMULSION CLUB\nElige una suscripción mensual o anual, o una compra única de acceso de por vida. Los clientes que cumplan los requisitos podrán recibir una oferta de bienvenida, que se mostrará antes de la compra. Las suscripciones se renuevan automáticamente, salvo que se cancelen al menos 24 horas antes de que termine el periodo actual. Puedes gestionarlas o cancelarlas en los ajustes de tu cuenta de Apple.\n\nLas funciones de la cámara dependen del dispositivo.\n\nPolítica de privacidad: https://www.makexyz.app/emulsion/privacy-policy.html\nCondiciones de uso: https://www.makexyz.app/emulsion/terms-of-service.html",
     "ui": [
       "Español",
       "Ayuda",
@@ -274,7 +280,7 @@ window.EMULSION_SITE = {
     "paragraphs": [
       "Emulsion lleva el ritmo de la fotografía analógica a tu iPhone: elige una película, compón el encuadre y revela la imagen en tu propio laboratorio.",
       "UNA CÁMARA QUE TÚ CONTROLAS\nAjusta el ISO, la velocidad de obturación, el balance de blancos, el enfoque y la exposición. Usa las guías de composición y la vista previa de película en directo para dar forma a la foto antes de pulsar el disparador. La captura RAW y ProRAW está disponible en dispositivos compatibles.",
-      "PELÍCULAS CON CARÁCTER\nExplora películas en color y en blanco y negro con grano, halación, resplandor y un carácter tonal propio. Honey 200 y Daily Roll te ofrecen un punto de partida. Emulsion Club da acceso a toda la colección de películas y a la importación de LUT .cube personalizadas.",
+      "PELÍCULAS CON CARÁCTER\nElige entre 10 películas en color, 6 en blanco y negro y 4 acabados de impresión en papel, con sus colores, tonos y texturas. Peach 160, Honey 200, Silver 100 y Daily Roll son gratuitos. Emulsion Club desbloquea las demás películas, los acabados de papel y la importación de LUT .cube propias.",
       "TU LABORATORIO DE BOLSILLO\nRevela fotos de tu fototeca, cambia su aspecto de película, ajusta la imagen y remátala con marcos de impresión. Prueba los modos de medio fotograma y ojo de pez para descubrir otra perspectiva.",
       "EMULSION CLUB\nElige una suscripción mensual o anual, o una compra única de acceso de por vida. Los clientes que cumplan los requisitos podrán recibir una oferta de bienvenida, que se mostrará antes de la compra. Las suscripciones se renuevan automáticamente, salvo que se cancelen al menos 24 horas antes de que termine el periodo actual. Puedes gestionarlas o cancelarlas en los ajustes de tu cuenta de Apple.",
       "Las funciones de la cámara dependen del dispositivo."
@@ -285,9 +291,9 @@ window.EMULSION_SITE = {
       "sample": "Muestra de película Emulsion",
       "imageAlts": [
         "Foto urbana revelada con Honey 200",
-        "Flores de cerezo reveladas con Peach 160",
-        "Foto de una torre revelada con Flint 100",
-        "Foto de un avión revelada con Honey 200"
+        "Flores de cerezo reveladas con Mint 400",
+        "Foto de una torre revelada con Midnight 400",
+        "Foto de un avión revelada con Ridge 100"
       ],
       "headings": [
         "Una cámara que controlas",
@@ -298,12 +304,13 @@ window.EMULSION_SITE = {
       "beta": "Probar en TestFlight",
       "explore": "Ver las muestras",
       "closing": "Elegir. Capturar. Revelar."
-    }
+    },
+    "previewNote": "Vista previa V8: las muestras usan las nuevas recetas. La beta pública actual (compilación 8) usa recetas anteriores."
   },
   "zh-Hant": {
     "title": "底片相機與口袋暗房",
     "promo": "裝入底片、構圖取景，再顯影出自己的風格。手動控制、即時底片預覽，還有能讓新舊照片重新發光的口袋暗房。",
-    "description": "Emulsion 將底片攝影的節奏帶到你的 iPhone：選一款底片、構圖取景，再到自己的暗房裡顯影。\n\n由你掌握的相機\n調整 ISO、快門速度、白平衡、對焦與曝光。透過構圖輔助線與即時底片預覽，在按下快門前塑造畫面。支援的裝置可拍攝 RAW 與 ProRAW。\n\n有個性的底片\n探索彩色與黑白底片的顆粒、光暈、柔光與階調特色。從 Honey 200 和 Daily Roll 開始，找到拍照的樂趣。Emulsion Club 可解鎖完整底片系列，以及自訂 .cube LUT 匯入功能。\n\n你的口袋暗房\n將照片圖庫裡的影像重新顯影，更換底片風格、調整畫面，再以相紙邊框完成作品。也能透過半格與魚眼拍攝模式，探索不同視角。\n\nEMULSION CLUB\n可選擇月訂閱、年訂閱，或一次購買終身使用資格。符合資格的使用者可能享有首次訂閱優惠，詳情會在購買前顯示。除非在目前訂閱期間結束至少 24 小時前取消，否則訂閱將自動續訂。你可以在 Apple 帳號設定中管理或取消訂閱。\n\n相機功能依裝置而異。\n\n隱私權政策：https://www.makexyz.app/emulsion/privacy-policy.html\n使用條款：https://www.makexyz.app/emulsion/terms-of-service.html",
+    "description": "Emulsion 將底片攝影的節奏帶到你的 iPhone：選一款底片、構圖取景，再到自己的暗房裡顯影。\n\n由你掌握的相機\n調整 ISO、快門速度、白平衡、對焦與曝光。透過構圖輔助線與即時底片預覽，在按下快門前塑造畫面。支援的裝置可拍攝 RAW 與 ProRAW。\n\n有個性的底片\n從 10 款彩色底片、6 款黑白底片和 4 款紙張效果中，選擇不同的色彩、階調與質感。Peach 160、Honey 200、Silver 100 與每日底片免費提供；Emulsion Club 可解鎖其餘底片、紙張效果並匯入自己的 .cube LUT。\n\n你的口袋暗房\n將照片圖庫裡的影像重新顯影，更換底片風格、調整畫面，再以相紙邊框完成作品。也能透過半格與魚眼拍攝模式，探索不同視角。\n\nEMULSION CLUB\n可選擇月訂閱、年訂閱，或一次購買終身使用資格。符合資格的使用者可能享有首次訂閱優惠，詳情會在購買前顯示。除非在目前訂閱期間結束至少 24 小時前取消，否則訂閱將自動續訂。你可以在 Apple 帳號設定中管理或取消訂閱。\n\n相機功能依裝置而異。\n\n隱私權政策：https://www.makexyz.app/emulsion/privacy-policy.html\n使用條款：https://www.makexyz.app/emulsion/terms-of-service.html",
     "ui": [
       "繁體中文",
       "支援",
@@ -317,7 +324,7 @@ window.EMULSION_SITE = {
     "paragraphs": [
       "Emulsion 將底片攝影的節奏帶到你的 iPhone：選一款底片、構圖取景，再到自己的暗房裡顯影。",
       "由你掌握的相機\n調整 ISO、快門速度、白平衡、對焦與曝光。透過構圖輔助線與即時底片預覽，在按下快門前塑造畫面。支援的裝置可拍攝 RAW 與 ProRAW。",
-      "有個性的底片\n探索彩色與黑白底片的顆粒、光暈、柔光與階調特色。從 Honey 200 和 Daily Roll 開始，找到拍照的樂趣。Emulsion Club 可解鎖完整底片系列，以及自訂 .cube LUT 匯入功能。",
+      "有個性的底片\n從 10 款彩色底片、6 款黑白底片和 4 款紙張效果中，選擇不同的色彩、階調與質感。Peach 160、Honey 200、Silver 100 與每日底片免費提供；Emulsion Club 可解鎖其餘底片、紙張效果並匯入自己的 .cube LUT。",
       "你的口袋暗房\n將照片圖庫裡的影像重新顯影，更換底片風格、調整畫面，再以相紙邊框完成作品。也能透過半格與魚眼拍攝模式，探索不同視角。",
       "EMULSION CLUB\n可選擇月訂閱、年訂閱，或一次購買終身使用資格。符合資格的使用者可能享有首次訂閱優惠，詳情會在購買前顯示。除非在目前訂閱期間結束至少 24 小時前取消，否則訂閱將自動續訂。你可以在 Apple 帳號設定中管理或取消訂閱。",
       "相機功能依裝置而異。"
@@ -328,9 +335,9 @@ window.EMULSION_SITE = {
       "sample": "Emulsion 底片樣片",
       "imageAlts": [
         "以 Honey 200 顯影的城市照片",
-        "以 Peach 160 顯影的櫻花照片",
-        "以 Flint 100 顯影的塔樓照片",
-        "以 Honey 200 顯影的飛機照片"
+        "以 Mint 400 顯影的櫻花照片",
+        "以 Midnight 400 顯影的塔樓照片",
+        "以 Ridge 100 顯影的飛機照片"
       ],
       "headings": [
         "掌握你的光線。",
@@ -341,6 +348,7 @@ window.EMULSION_SITE = {
       "beta": "加入 TestFlight 測試",
       "explore": "查看底片樣片",
       "closing": "選一卷。拍一張。慢慢顯影。"
-    }
+    },
+    "previewNote": "V8 預覽：這些樣片使用新版底片配方。目前公開測試版（組建 8）仍使用舊配方。"
   }
 };

diff --git a/emulsion/index.html b/emulsion/index.html
@@ -34,6 +34,7 @@
             <a id="beta-link" class="cta" href="https://testflight.apple.com/join/21nFVGJx"><span>TestFlight で試す</span><span aria-hidden="true">↗</span></a>
             <a id="explore-link" class="text-link" href="#description"><span>フィルム作例を見る</span><span aria-hidden="true">↓</span></a>
           </div>
+          <p id="catalog-preview" class="status">V8 プレビュー：作例は新しいフィルムレシピで現像しています。現在の公開ベータ（ビルド 8）は以前のレシピです。</p>
           <p id="release-status" class="status">公開準備中 · iPhone / iPad</p>
         </div>
         <figure class="hero-photo">
@@ -44,7 +45,7 @@
       <article id="description" data-editorial>
         <p>Emulsion は、フィルム写真のリズムを iPhone に届けます。フィルムを選び、構図を決め、暗室で写真を仕上げましょう。</p>
         <p>ISO、シャッター速度、ホワイトバランス、フォーカス、露出を調整。構図ガイドとライブのフィルムプレビューで、撮影前から作品をつくれます。対応機種では RAW・ProRAW 撮影も利用できます。</p>
-        <p>カラーやモノクロのフィルム、粒子、ハレーション、ブルームを楽しめます。Honey 200 と Daily Roll から始めて、Emulsion Club でフィルム全種類と .cube LUT の読み込みを利用できます。</p>
+        <p>10 種のカラーフィルム、6 種のモノクロフィルム、4 種の紙プリントを、色・階調・質感で選べます。Peach 160、Honey 200、Silver 100 と Daily Roll は無料で使えます。Emulsion Club で残りのフィルム、紙プリント、自分の .cube LUT の読み込みを利用できます。</p>
         <p>ライブラリの写真を現像し、フィルムや調整、フレームで仕上げられます。ハーフフレームと魚眼撮影にも対応。</p>
         <p>Emulsion Club は月額、年額、買い切りのプランをご用意。対象ユーザーへの初回オファーは購入前に表示されます。定期購読は期間終了の24時間以上前に解約しない限り自動更新されます。Apple アカウントの設定で管理・解約できます。</p>
         <p>カメラ機能は機種によって異なります。</p>

diff --git a/emulsion/site.js b/emulsion/site.js
@@ -38,14 +38,16 @@
   }
   function renderEditorial(c) {
     const article = $('#description');
+    const notice = $('#catalog-preview');
+    if (notice) notice.textContent = c.previewNote;
     const fragment = document.createDocumentFragment();
     const lede = paragraph(c.paragraphs[0]);
     lede.className = 'story-lede';
     fragment.append(lede);
     const samples = [
-      ['cherry-peach.jpg', 'PEACH 160', 1600, 1066],
-      ['tower-flint.jpg', 'FLINT 100', 1600, 1066],
-      ['plane-honey.jpg', 'HONEY 200', 1600, 1200]
+      ['cherry-mint.jpg', 'MINT 400', 1600, 1066],
+      ['tower-midnight.jpg', 'MIDNIGHT 400', 1600, 1066],
+      ['plane-ridge.jpg', 'RIDGE 100', 1600, 1200]
     ];
     samples.forEach(([file, stock, width, height], index) => {
       const section = document.createElement('section');
